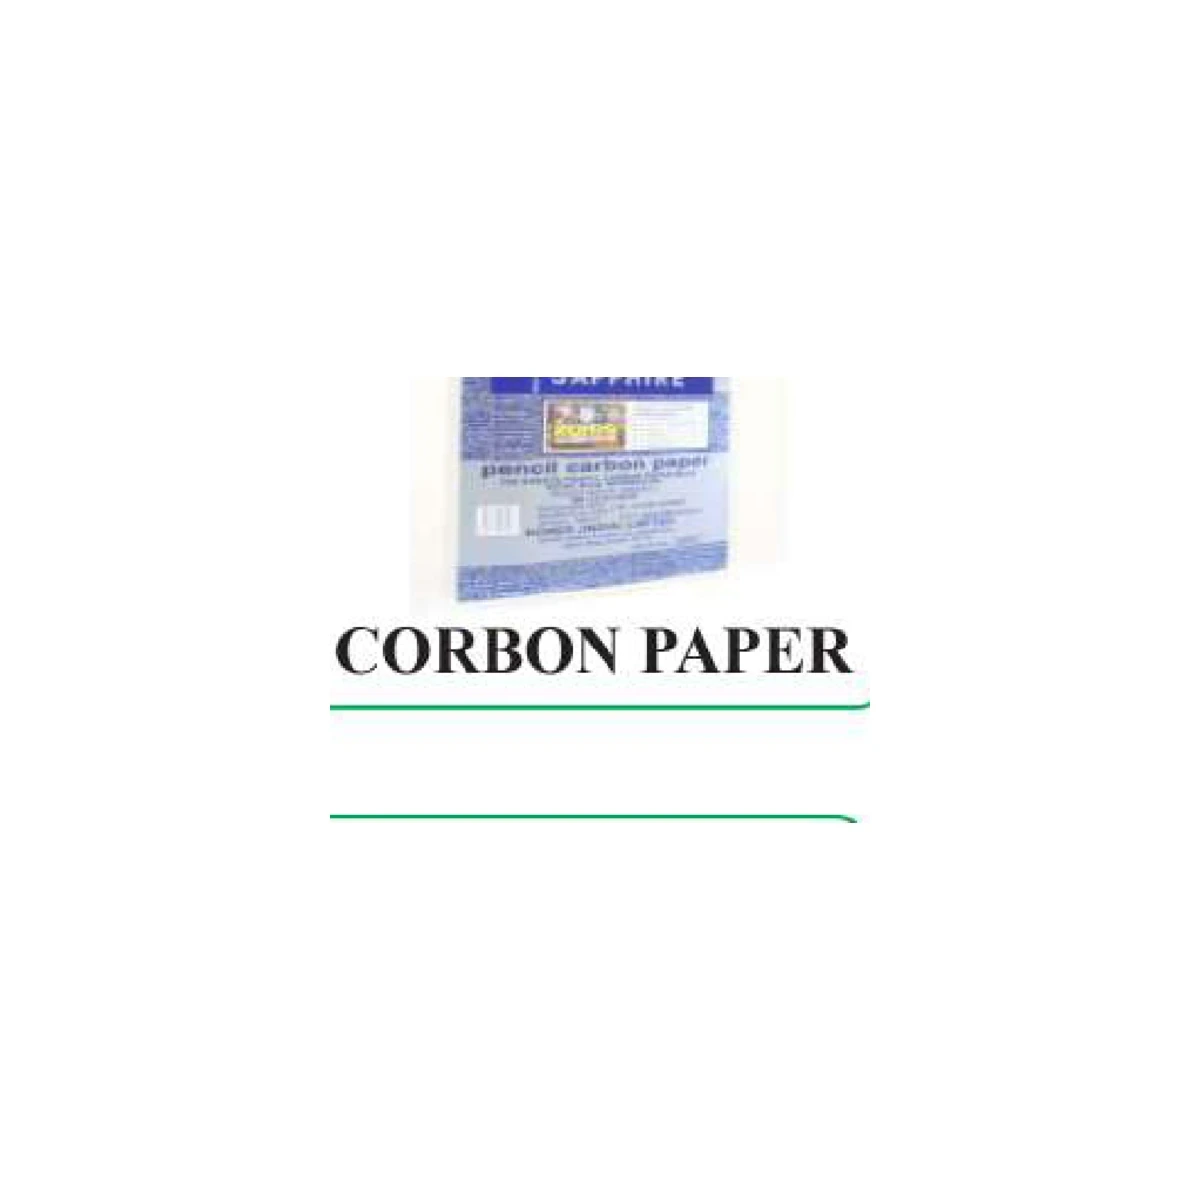
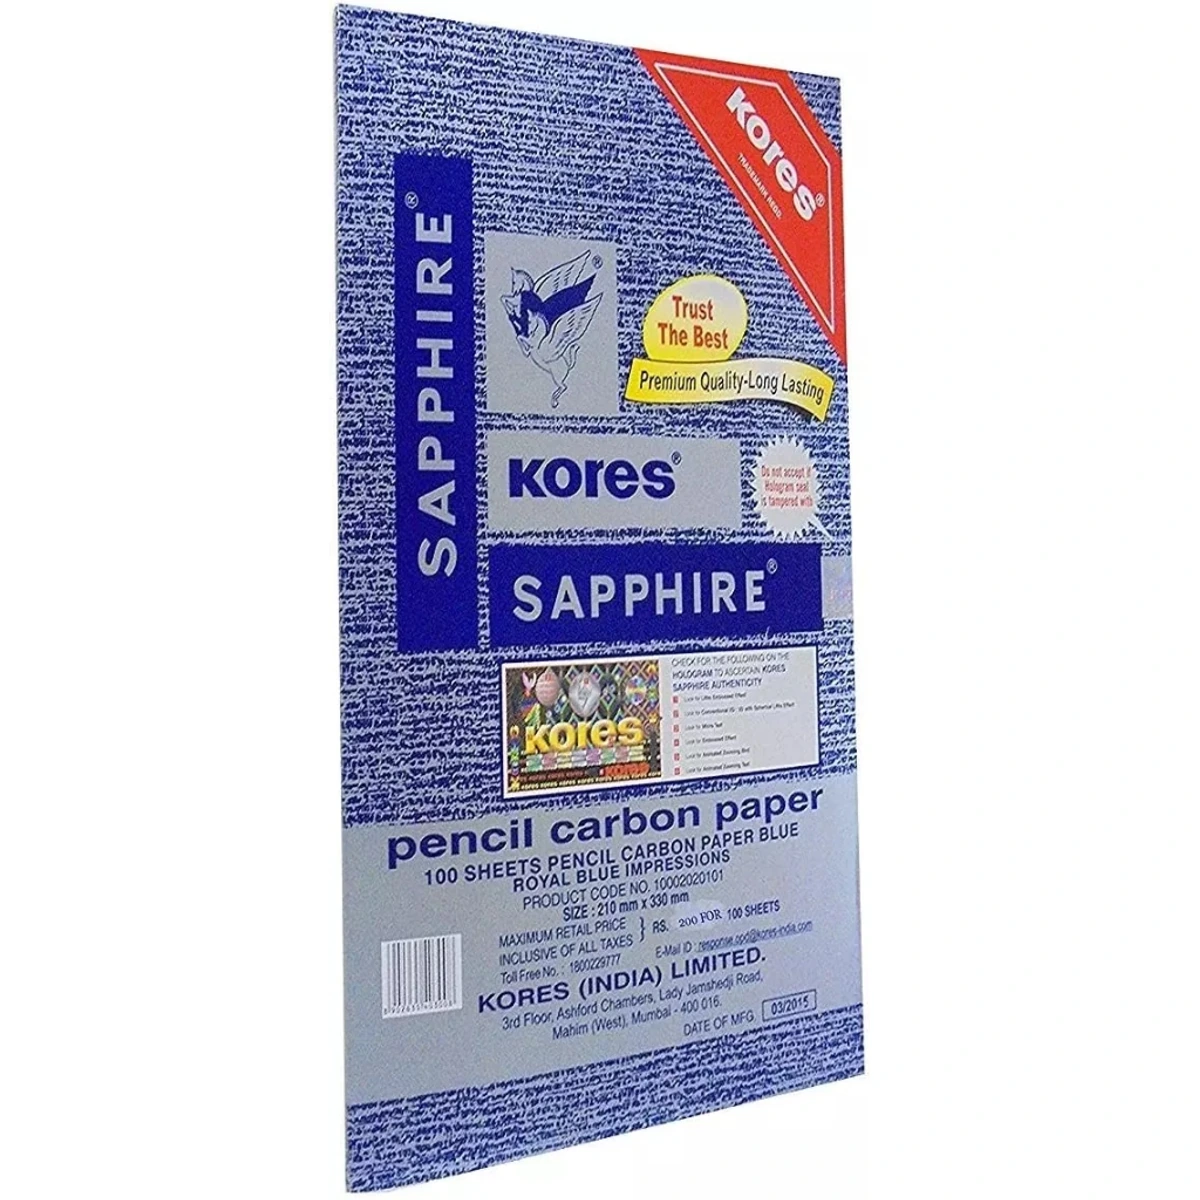
feat(catalog): update product images for OB-PAP-12, OB-PAP-13, OB-PAP-15, OB-PAP-16, OB-NOT-69 and bump cache version to v5

diff --git a/src/lib/utils/image.ts b/src/lib/utils/image.ts
@@ -3,7 +3,7 @@
  * Appends a version query string (?v=...) to all internal product image URLs
  * so that updated images immediately bypass stale edge and browser caches upon deployment.
  */
-export const CATALOG_IMAGE_VERSION = '20261109_v4';
+export const CATALOG_IMAGE_VERSION = '20261109_v5';
 
 export function getVersionedImageUrl(url: string | null | undefined): string {
   if (!url) return `/assets/placeholder-product.svg?v=${CATALOG_IMAGE_VERSION}`;
